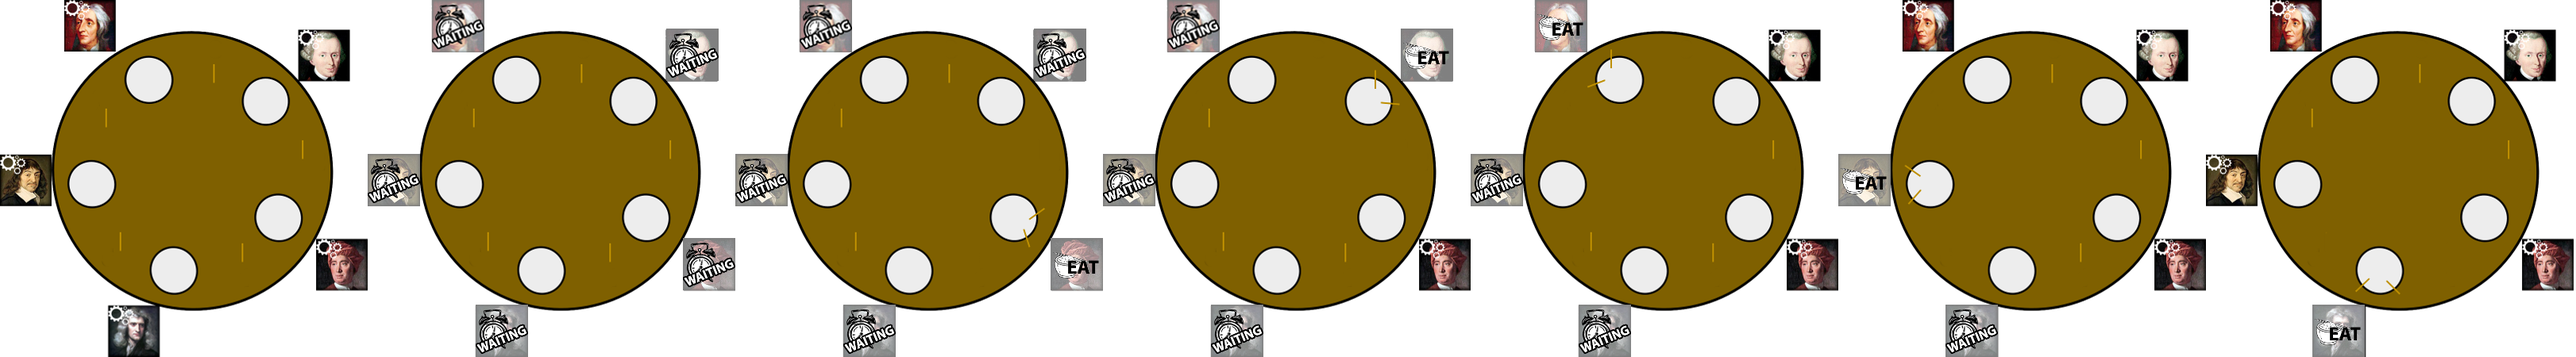
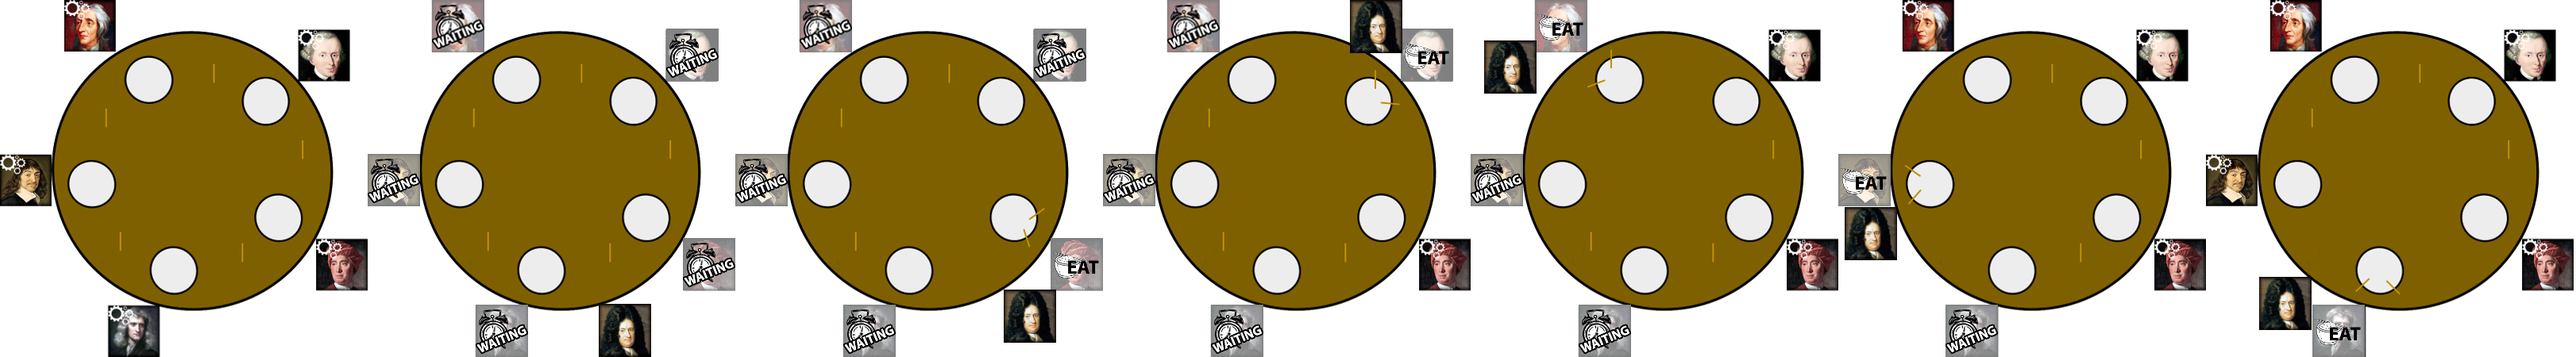
Modifies arbitrator animation to include new philosopher as waiter

diff --git a/solutions.php b/solutions.php
@@ -37,10 +37,10 @@ The Dining Philosophers Problem has two common solutions:
 <br>
 <div class="row">
 	<div class="col-md-4">
-	<button id="rscHierarchy" type="button" onclick="showHierarchy(100)" class="btn btn-lg btn-primary">1. Resource Hierarchy</button><br>
+	<button id="rscHierarchy" type="button" onclick="showHierarchy(0)" class="btn btn-lg btn-primary">1. Resource Hierarchy</button><br>
 </div>
 	<div class="col-md-8">
-<button id="arbitrator" type="button" onclick="showArbitrator(100)" class="btn btn-lg btn-primary">2. Arbitrator</button>
+<button id="arbitrator" type="button" onclick="showArbitrator(0)" class="btn btn-lg btn-primary">2. Arbitrator</button>
 </div>
 </div>
 <div id="rscHierarchySol" style="display:none">
@@ -167,10 +167,6 @@ function showHierarchy(frame) {
 	var a = "arbitratorSol";
 	document.getElementById(a).style.display = "none";
 	document.getElementById(r).style.display = "inline";
-	if(frame == 100) {
-		frame = 0;
-		rscCount++;
-	}
 	animate("rscHierarchy.png", "hAnimation", frame, 0);
 	return 0;
 }
@@ -180,18 +176,13 @@ function showArbitrator(frame) {
 	var a = "arbitratorSol";
 	document.getElementById(r).style.display = "none";
 	document.getElementById(a).style.display = "inline";
-	if(frame == 100) {
-		frame = 0;
-		arbCount++;
-	}
 	animate("arbitrator.png", "aAnimation", frame, 1);
 	return 0;
 }
 
 function updateHierarchy() {
-	var update = rscCount;
-	if(update < 11) {
-		showHierarchy(update);
+	if(rscCount < 11) {
+		showHierarchy(rscCount);
 		rscCount++;
 	}
 	else {
@@ -203,9 +194,8 @@ function updateHierarchy() {
 }
 
 function updateArbitrator() {
-	var update = arbCount;
-	if(update < 7) {
-		showArbitrator(update);
+	if(arbCount < 7) {
+		showArbitrator(arbCount);
 		arbCount++;
 	}
 	else {
